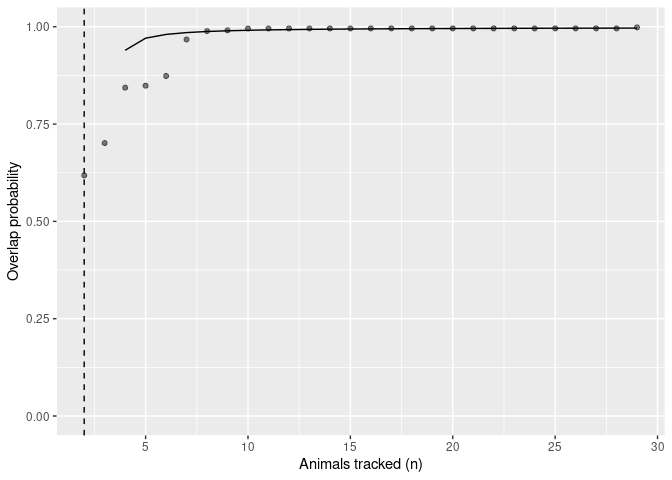
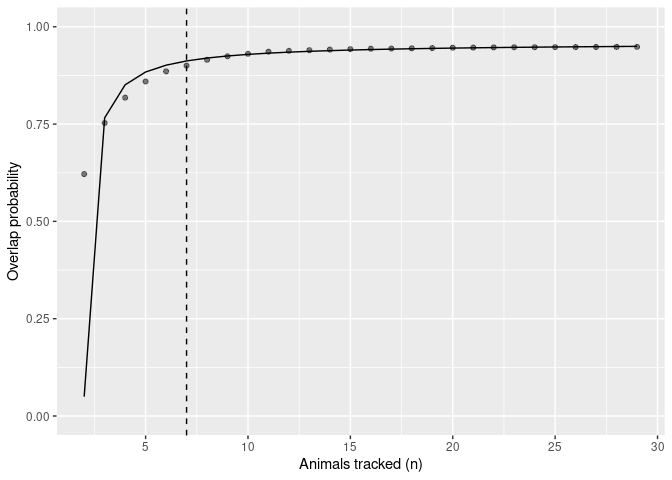
Ver 2.0.1.0005 - update #3

diff --git a/README.md b/README.md
@@ -42,7 +42,7 @@ There are three main filtering functions.
 
 <!-- <p>&nbsp;</p> -->
 
-##### 1-1. Load Fastloc GPS data obtained from a green turtle
+##### 1-1. Load tracking data
 
 ``` r
 data(turtle)
@@ -120,7 +120,7 @@ iterations and the machine specs. The runtime was about 2.5 minutes for
 RAM).
 
 ``` r
-overlap <- boot_overlap(curtis, R = 10, method = "PHR")
+overlap <- boot_overlap(curtis, R = 1000, method = "PHR")
 ```
 
 ##### 2-3. Find the minimum sample size required to estimate the general distribution.

diff --git a/NEWS.md b/NEWS.md
@@ -10,7 +10,7 @@ News for Package 'SDLfilter'
 
 #### Version 2.0.1.0005 (2020-11-16)
 * added a new citation for three functions (boot_overlap, boot_area, asymptote). Shimada T, Thums M, Hamann M, Limpus CJ, Hays GC, FitzSimmons N, Wildermann NE, Duarte CD, Meekan MG (2020) Optimising sample sizes for animal distribution analysis using tracking data. Methods in Ecology and Evolution, 00:1–10. doi:10.1111/2041-210X.13506
-* updated README file.
+* updated the README file.
 
 
 #### Version 2.0.1 (2020-07-04)
